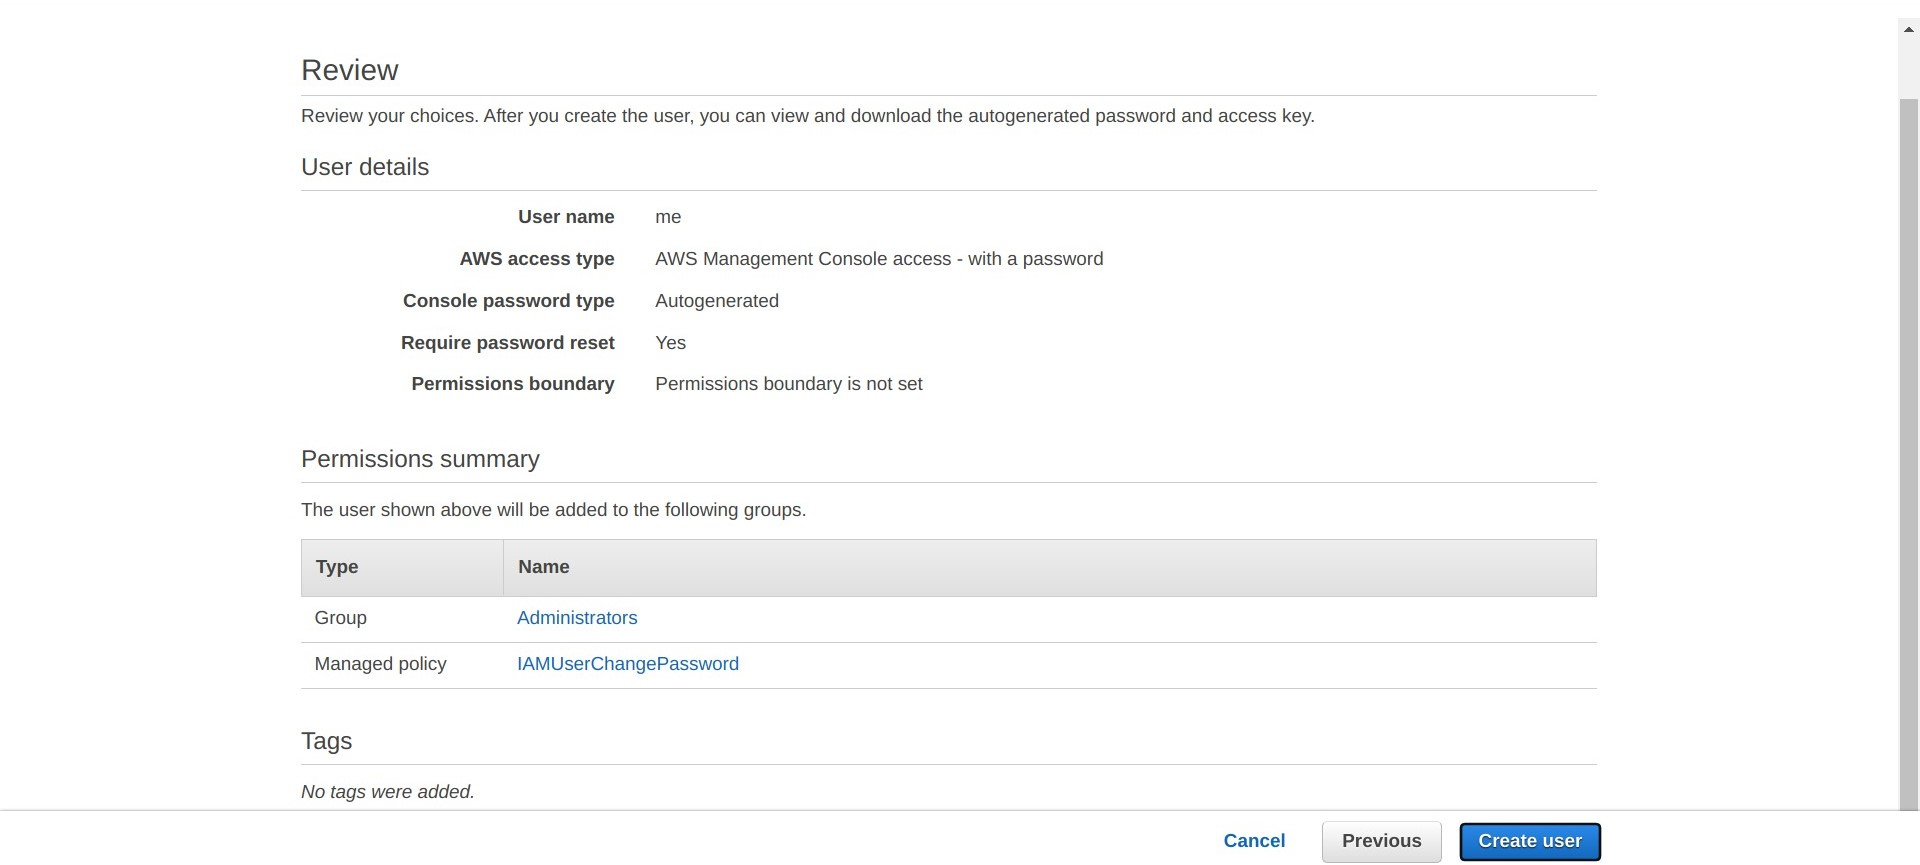
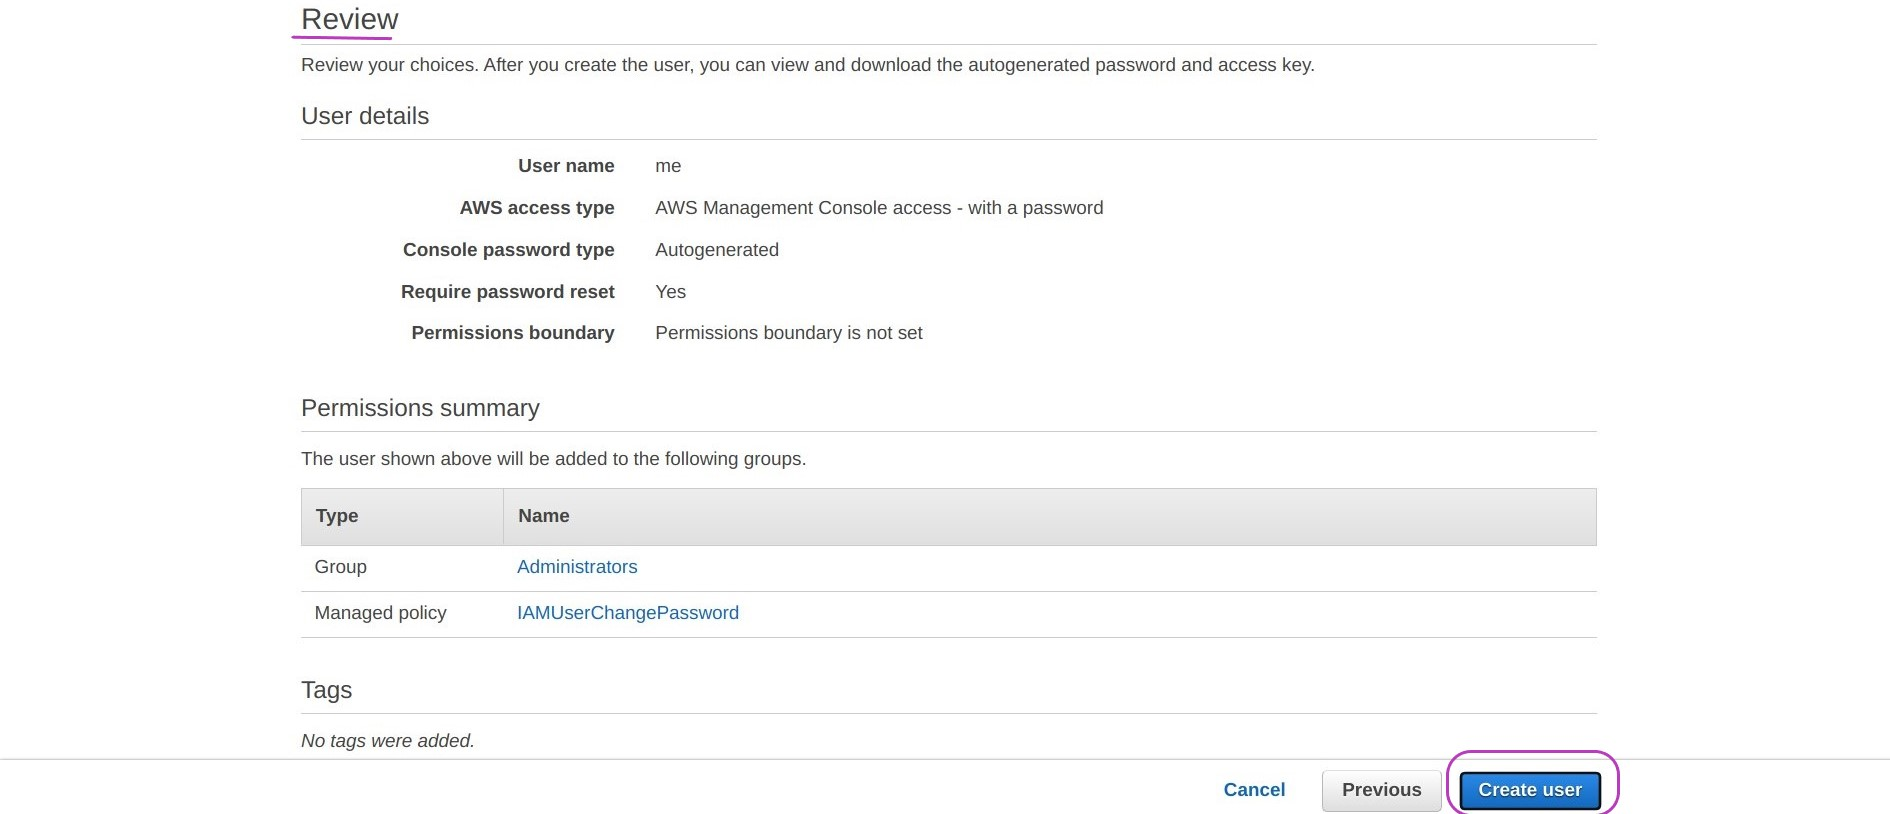
Refurbish episode 2, done

diff --git a/_episodes/02-configure-your-account.md b/_episodes/02-configure-your-account.md
@@ -24,28 +24,28 @@ keypoints:
 > ## Steps
 > These are the main steps you will follow to configure your AWS account:
 >
-> 1. **Change the default region of your account to Ireland.**\
+> 1. [**Change the default region of your account to Ireland**](#1-change-the-default-region-of-your-account-to-ireland).\
 > AWS services are provided through many regions around the world and a region is allocated by default. You will need to change the region of your account to Ireland because the Amazon Machine Image from which you will create your AWS instance is stored in the Ireland region. But you can later change your account region if you wish.  
 >
-> 2. **Secure your AWS Root User account.**\
-> The account your created in the last episode is your Root user account and can perform any operation including closing the account. It is best practice to use the Root user account only for high-level administration and to create and an **IAM** (Identity Access Managment) user account for day-to-day work. It is also best practice to secure the Root user account with multi-factor authentication (MFA).
+> 2. [**Secure your AWS Root User account**](#2-secure-your-aws-root-user-account).\
+> The account you created in the last episode is your Root user account and can perform any operation including closing the account. It is best practice to use the Root user account only for high-level administration and to create and an **IAM** (Identity Access Managment) user account for day-to-day work. It is also best practice to secure the Root user account with multi-factor authentication (MFA).
 >
-> 3. **Create an IAM user account to create and manage your instance.**\
+> 3. [**Create an IAM user account to create and manage your instance**](#3-create-an-iam-user-account-to-create-and-manage-your-instance).\
 > IAM user accounts are attached to a **User Group** that has a set of specific permissions (such as reading, writing and deleting) on specified resources. We will create a User Group with predefined permissions and an IAM user account in that group. 
 >
-> 4. **Create an alias for your account id**.\
+> 4. [**Create an alias for your account id**](#4-create-and-alias-for-your-iam-user-acount).\
 > Your Root user account id is a 12-digit number that is difficult to remember. We are going to create an alias that is easier to remember. This is especially useful because the alias will replace the 12-digit number in the web address for logging in to your account as IAM user. 
 >
-> 5. **Grant your IAM user account the permissions to access the Billing Dashboard**.\
+> 5. [**Grant your IAM user account the permissions to access the Billing Dashboard**](#5-grant-your-iam-user-account-the-permissions-to-access-the-billing-dashboard).\
 > The Billing Dashboard of your account is only accessible to the Root user by default. As you will mostly be using your IAM user account, it is convenient that you can check your bills and related information with this account too. We are going set on the permissions that enable your IAM user account to access the Billing Dashboard. 
 {: .callout}
 
 ## 1. Change the default region of your account to Ireland
 
-Once you have logged to your AWS Root user account, your browser will display a page showing the default region in the top right. This may be **N. Virginia** or another default.
-You need to change the region to **Europe (Ireland)  eu-west-1** using the drop-down menu. Your browser will redirect to the AWS servers in the selected region.
+Once you have logged in to your AWS Root user account, your browser will display a page showing the default region in the top right. This may be **N. Virginia** or another default.
+You need to change the region to **Europe (Ireland)  eu-west-1** using the drop-down menu: click on the region name shown. Your browser will redirect to the AWS servers in the selected region.
 
-![Caption.](../fig/config-acc/ca01-signedin-options-services-and-cookies.jpg "Browser showing N. Virginia as the region for the account in the top right.")
+![Caption.](../fig/config-acc/ca01-signedin-options-services-and-cookies.jpg "Browser showing N. Virginia as the region for the account in the top right."){: width="900px"}
 
 
 > ## Note
@@ -57,30 +57,34 @@ You need to change the region to **Europe (Ireland)  eu-west-1** using the drop-
 We now are going to add multi-factor authentication (MFA) to your Root user account as an extra security mechanism. This requires you to download an app to your mobile phone, as described below. 
 
 > ## No mobile phone?
-> If you don't have a mobile phone, don't worry, you can skip this step and go straight to **3. Create an IAM user account to create and manage your instance**.  
+> If you don't have a mobile phone, don't worry, you can skip this step and go straight to [**3. Create an IAM user account to create and manage your instance**](#3-create-an-iam-user-account-to-create-and-manage-your-instance).  
 > If you are not using MFA it is best to use your AWS Root user account only from your personal computer or a trusted computer.
 {: .callout}
 
-Type **iam** in the AWS search box and press Enter. You will be presented with the "IAM Dashboard". Click on **Add MFA** (on the right).
+Type **iam** in the AWS search box at the top and press Enter:
 
-![Caption.](../fig/config-acc/ca02-root-user-requires-mfa1.jpg "The 'IAM Dashboard' showing the Add MFA button.")
+![Caption.](../fig/config-acc/ca02-was-search-box.jpg "The AWS console search box circled."){: width="900px"}
+
+You will be presented with the "IAM Dashboard" page. Click on **Add MFA** (on the right).
+
+![Caption.](../fig/config-acc/ca02-root-user-requires-mfa1.jpg "The 'IAM Dashboard' showing the Add MFA button."){: width="900px"}
 
 On the page that appears, "Your Security Credentials", click **Activate MFA**.
 
-![Caption.](../fig/config-acc/ca03-root-user-activate-mfa.jpg "The 'Your Security Credentials' page showing the Activate MFA button")
+![Caption.](../fig/config-acc/ca03-root-user-activate-mfa.jpg "The 'Your Security Credentials' page showing the Activate MFA button"){: width="900px"}
 
 A pop-up window called "Manage MFA device" will appear. Select **Virtual MFA device** and **Continue**.
 
-![Caption.](../fig/config-acc/ca04-root-user-choose-mfa-device.jpg "The 'Manage MFA device' pop-up window showing Virtual MFA device selected.")
+![Caption.](../fig/config-acc/ca04-root-user-choose-mfa-device.jpg "The 'Manage MFA device' pop-up window showing Virtual MFA device selected."){: width="900px"}
 
-You will now be presented with a pop-up called "Set up a virtual MFA device". Don't select anything at the moment.
+You will now be presented with a pop-up called "Set up a virtual MFA device" --- **don't select anything at the moment**.
 
-![Caption.](../fig/config-acc/ca05-root-user-setup-mfa-device.jpg "The 'Set up a virtual MFA device' pop-up")
+![Caption.](../fig/config-acc/ca05-root-user-setup-mfa-device.jpg "The 'Set up a virtual MFA device' pop-up"){: width="900px"}
 
-To set up your mobile as MFA device you will need a Virtual MFA app on your mobile phone. We have tested both "Duo Mobile" and "Google Authenticator" and give instructions for both but you may already be using another app. AWS lists some options here: [AWS MFAs](https://aws.amazon.com/iam/features/mfa/).
+To set up your mobile as MFA device you will need a Virtual MFA app on your mobile phone. We have tested both **Duo Mobile** and **Google Authenticator** and give instructions for both below but you may already be using another app. AWS lists some options here: [AWS MFAs](https://aws.amazon.com/iam/features/mfa/).
 
 **If you do not have a Virtual MFA app on your mobile phone:**
-Go to the app store on your phone, search for Duo Mobile *or* Google Authenticator, and install it.
+Go to the app store on your phone, search for Duo Mobile **or** Google Authenticator, and install it.
 
 Once you have installed an MFA app in your mobile:
 - Return to the above pop-up "Set up a virtual MFA device" on your computer and choose **Show QR code**.
@@ -88,8 +92,8 @@ Once you have installed an MFA app in your mobile:
   - Press **+ Add** in Duo Mobile or **+** in Google Authenticator 
   - Press **Use QR code** in Duo Mobile or **Scan a QR code** in Google Authenticator. Your camera will open to scan a QR code.
   - Point your camera at your computer screen showing the QR code to scan. You may need to adjust the zoom for the scan to occur.
-- Once the scan is successful, the MFA will display a number for about 30 seconds, and then another number for the same time, and so on until you close it. 
-- Of those numbers shown in your mobile MFA, you need to enter two consecutive numbers into the fields **MFA Code 1** and **MFA Code 2** on the pop-up "Set up a virtual MFA device" on your computer. You may need to scroll down to see MFA Code 2. **NB: enter the numbers with no space between them** even if they are shown with a space in your mobile.
+- Once the scan is successful, the MFA app will display a number for about 30 seconds, and then another number for the same time, and so on until you close it. 
+- Of those numbers shown in your mobile MFA app, you need to enter two consecutive numbers into the fields **MFA Code 1** and **MFA Code 2** on the pop-up "Set up a virtual MFA device" on your computer. You may need to scroll down to see MFA Code 2. **NB: enter the numbers with no space between them** even if they are shown with a space in your mobile.
 - Click on **Assign MFA**. 
 
 You will see a success message which you can close.
@@ -100,31 +104,37 @@ Every time you login to your Root user account, you will be asked to enter your 
 
 We are going to create an IAM user account with which you will create and manage your AWS instance in the next lesson. This means first creating an IAM User Group with one or more security policies, and then your IAM user account within that User Group.
 
-We will create a user group called **Administrators**, then a user account called **YourName** (your actual name), and finally attach the account to the group. As this is the first IAM group and IAM account to be created, we need to do this with the Root user account, but then it will be possible to do it with the IAM account we will create because it will have Administrator privileges.
+We will create a user group called **Administrators**, then a user account called **YourUserName** (of your choosing), and finally attach the account to the group. As this is the first IAM group and IAM account to be created, we need to do this with the Root user account, but then it will be possible to do it with the IAM account we will create because it will have Administrator privileges.
 
-#### **Create the user group**
+### **Create the user group**
 
-Go to the IAM Dashboard page by typing **iam** in the AWS search box and pressing Enter. On the IAM Dashboard, click on "User groups" under "Access Management" on the left, and then on **Create group** on the right.
+Go to the IAM Dashboard page: type **iam** in the AWS search box at the top and press Enter. On the IAM Dashboard, click on "User groups" on the left, and then on **Create group** on the right.
 
-![Caption.](../fig/config-acc/ca11-iam-user-create-group-btton.jpg "The IAM Dashboard showing the User groups option under Access Management on the left and the Create group button on the left.")
+![Caption.](../fig/config-acc/ca11-iam-user-create-group-btton.jpg "The IAM Dashboard showing the User groups option under Access Management on the left and the Create group button on the left."){: width="900px"}
 
-In the page that appears, "Create user group", type "Administrators" in the box "User group name" but **don't press** Enter yet. Scroll down until you see the section "Attach permissions policy - *Optional*". This section has a search box and a list of different policies.
+In the page that appears, "Create user group", type "Administrators" in the box "User group name" but **don't press** Enter yet. 
+
+![Caption.](../fig/config-acc/ca12-iam-user-name-group-box.jpg "The User group name box with 'Administrators' typed into it"){: width="900px"}
+
+Scroll down until you see the section "Attach permissions policy - *Optional*". This section has a search box and a list of different policies.
 
 Type "administratoraccess" in the search box and press Enter.
 
-![Caption.](../fig/config-acc/ca13-iam-user-attach-policy1.jpg "The Attach permissions policies - Optional panel with 'administratoraccess' typed into the search box")
+![Caption.](../fig/config-acc/ca13-iam-user-attach-policy1.jpg "The Attach permissions policies - Optional panel with 'administratoraccess' typed into the search box"){: width="900px"}
 
 This will bring the "AdministratorAccess" policy to the top of the list. Check the box next to that policy and then click on **Create group**. The screen displayed after creating the group may indicate it is loading users --- it's OK, ignore it.
 
 You now have a user group called **Administrators**
 
-![Caption.](../fig/config-acc/ca15-iam-user-group-created.jpg "A list of the User groups in the account showing that there is only one user group called Administrators.")
+![Caption.](../fig/config-acc/ca15-iam-user-group-created.jpg "A list of the User groups in the account showing that there is only one user group called Administrators."){: width="900px"}
 
-#### **Create the user and add it to the group**
+### **Create your user and add it to the group**
 
-The next step is to create your IAM user account. Under "Access Management" on the left, click on "Users".
+The next step is to create your IAM user account. 
 
-The page titled "Users" will be displayed. Click on **Add users**. 
+On the left menu pane, under "Access Management", click on **Users**.
+
+The page titled "Users" will be displayed. Click on **Add users** on the right. 
 
 You can now set your IAM user details as shown in the figure below, by:
 - typing your user name (a single word) 
@@ -134,20 +144,20 @@ You can now set your IAM user details as shown in the figure below, by:
 
 Then click on **Next: Permissions**
 
-![Caption.](../fig/config-acc/ca16-iam-user-add-name.jpg "The Add User section showing a user name ('me') typed into the User name box and the 'Password - AWS Management Console access' box checked")
-![Caption.](../fig/config-acc/ca16-iam-user-add-name2.jpg "and the 'Autogenerated password' and 'User must create a new password at next sign-in' options as checked. The Next: Permissions button is also shown")
+![Caption.](../fig/config-acc/ca16-iam-user-add-name.jpg "The Add User section showing a user name ('me') typed into the User name box and the 'Password - AWS Management Console access' box checked"){: width="900px"}
+![Caption.](../fig/config-acc/ca16-iam-user-add-name2.jpg "and the 'Autogenerated password' and 'User must create a new password at next sign-in' options as checked. The Next: Permissions button is also shown"){: width="900px"}
 
 You will be presented with a page that says "Add user - Set permissions". The **Add user to group** option should be set. Leave it set. 
 
 Check the box next to the group Administrators (in blue) and then click on **Next: Tags**
 
-![Caption.](../fig/config-acc/ca17-iam-user-add-to-group.jpg "The 'Add user - Set permissions' page showing 'Add user to group' selected.")
+![Caption.](../fig/config-acc/ca17-iam-user-add-to-group.jpg "The 'Add user - Set permissions' page showing 'Add user to group' selected."){: width="900px"}
 
 Adding tags --- or keywords --- for a user is optional. You don't need to tag your user account for the time being. It is useful when you are managing multiple user accounts.
 
-Click on **Next: Review**. This will display the options chosen for your user account for review. If these are correct click on **Create user**.
+Click on **Next: Review**. This will display the options you chose for your user account for review. If these are correct click on **Create user**.
 
-![Caption.](../fig/config-acc/ca18-iam-user-review.jpg "The review user account page")
+![Caption.](../fig/config-acc/ca18-iam-user-review.jpg "The review user account page"){: width="900px"}
 
 You will see a message indicating you have successfully added a user. This message includes information you will need.
 
@@ -155,7 +165,7 @@ You will see a message indicating you have successfully added a user. This messa
 - Download the  .csv file which contains your account login details: your username, your randomly generated password, and the web address where you will login to as IAM user 
 - Close the success message.
  
-![Caption.](../fig/config-acc/ca19-iam-user-created.jpg "The message indicating you have successfully aded a user showing the web address you need to note down and the button to download the .csv file")
+![Caption.](../fig/config-acc/ca19-iam-user-created.jpg "The message indicating you have successfully aded a user showing the web address you need to note down and the button to download the .csv file"){: width="900px"}
 
 
 > ## What's in the file?
@@ -176,21 +186,25 @@ Open a **new** tab in your browser and go to the login web address of your new a
 
 A 12-digit number can be difficult to remember so let's create an alias which is easier to remember. The alias can be used to login to your account.
 
-Type **iam** in the AWS search box and press Enter to go to the "IAM Dashboard".
+Type **iam** in the AWS search box at the top and press Enter to go to the "IAM Dashboard".
 
-On the right of the Dashboard, under the heading "AWS Account", is your "Account id" and further below your "Account Alias". Both are the same because you have not set up an alias yet. 
+On the "IAM dashboard" page, under the heading "AWS Account" on the right, you will your "Account id" and further below your "Account Alias". Both are the same because you have not set up an alias yet. 
 
-Click on **Create** next to "Account Alias" and then enter the alias you want to use --- which might be some version of your name or date of birth. Note the new sign-in URL. Click on **Save changes**.
+![Caption.](../fig/config-acc/ca19-iam-user-account-alias-shown.jpg "IAM Dashboard page with 'AWS account' underlined and 'Create' (alias) button circled."){: width="900px"}
 
-![Caption.](../fig/config-acc/ca22-url-alias-create.jpg "Pop-up called 'Create alias for AWS account xxxxxxxxxxxx'. ")
+Click on **Create** next to "Account Alias" and then enter the alias you want to use --- which might be some version of your name or date of birth. **Make a note** of the new sign-in URL. Click on **Save changes**.
+
+![Caption.](../fig/config-acc/ca22-url-alias-create.jpg "Pop-up called 'Create alias for AWS account xxxxxxxxxxxx'. "){: width="900px"}
 
 You can now login to your account using either web address: the one with your 12-digit account number or the one with your alias.
 
 ## 5. Grant your IAM user account the permissions to access the Billing Dashboard
 
-To grant your IAM user account the permissions to access the Billing Dashboard, go to the Account Settings page as follows: (1) on the navigation bar at the top, on the far right, click on your account name (or number), and (2) on the drop-down menu that appears, click on Account --- see the figure:
+To grant your IAM user account the permissions to access the Billing Dashboard, go to the Account Settings page as follows: 
+- on the navigation bar at the top, on the far right, click on your "**account name**" (or number)
+- on the drop-down menu that appears, click on **Account** --- see the figure:
 
-![Caption.](../fig/config-acc/ca23-root-setup-to-access-billing-info.png "Accessing the Acount settgins page")
+![Caption.](../fig/config-acc/ca23-root-setup-to-access-billing-info.png "Accessing the Acount settgins page"){: width="900px"}
 
 On the page that appears:
 
@@ -198,10 +212,10 @@ On the page that appears:
 
 &nbsp; &nbsp; &nbsp; &nbsp; **IAM User and Role Access to Billing Information**
 
-- To the right of the heading, click on Edit.
+- To the right of the heading, click on **Edit**.
 
 - Check **Activate IAM Access**.
 
-- Click on Update.
+- Click on **Update**.
 
 You have now configured your AWS account for day-to-day use.  

diff --git a/_episodes/01-create-your-account.md b/_episodes/01-create-your-account.md
@@ -44,7 +44,7 @@ Go to the AWS **sign-up** page by clicking on this link [AWS sign-up](https://po
 
 In the AWS sign-up page (shown below), you need to enter your email and password and a name for your account --- you can change the name of your account later.
 
-![Caption.](../fig/open-acc04-signup-page-filled.PNG.jpg "The Sign up for AWS page showing the boxes for your email address, password and account name"){: width="900px"}
+![Caption.](../fig/using-acc04-signedin-options-services-and-cookies.PNG.jpg "The Sign up for AWS page showing the boxes for your email address, password and account name"){: width="900px"}
 
 > ## New accounts
 > 1. new accounts are all granted the one-year Free Tier (message on the left).
@@ -126,8 +126,8 @@ From the congratulations page click **Go to the AWS Management Console** where y
 
 Login to your **Root user** account: enter the **email address** that you used to open your account in step 1  and press **Next** button. 
 
-You will be prompted to enter: 
-- enter some characters by a "Security check" box 
+You will be prompted to: 
+- enter some characters into a "Security check" box 
 - enter your password, 
 - if you are asked to select either the previous or the new version of the **Console Home**, please choose the new version, and 
 - select your cookie preferences (select as you prefer). 
